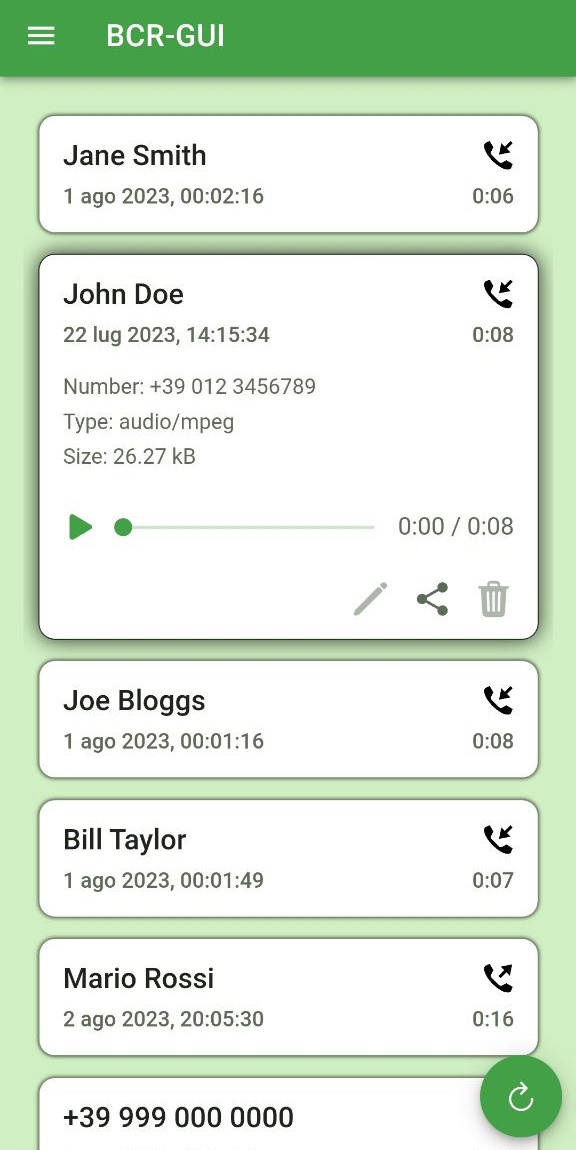
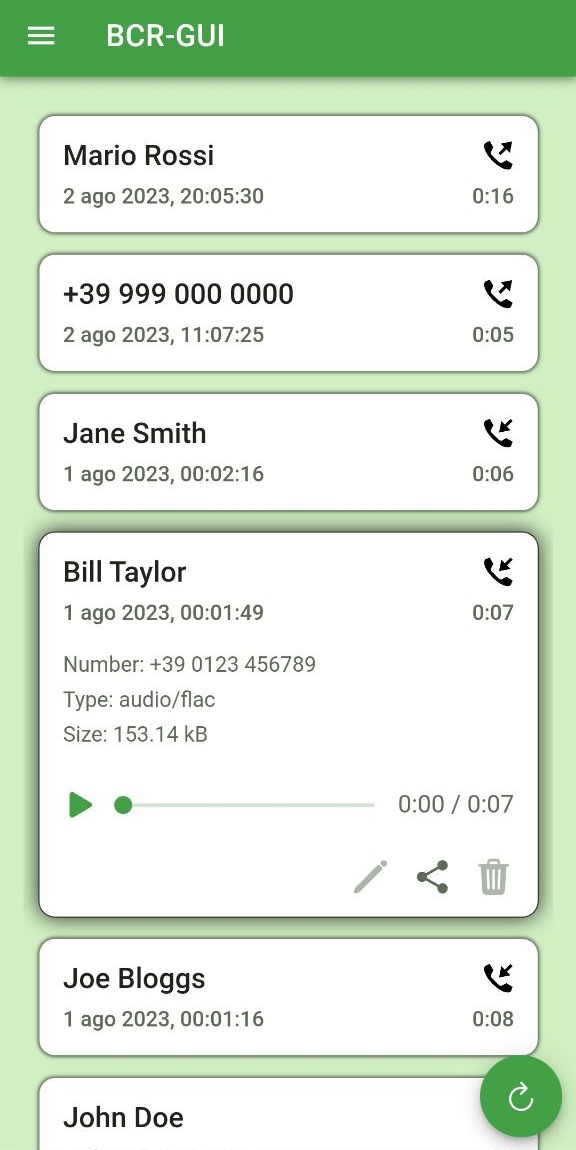
Added CHANGELOG file Closed version 0.0.2

diff --git a/src/app/version.ts b/src/app/version.ts
@@ -2,7 +2,7 @@ export default {
   // NOTE: remember to change version number in Android apk too:
   // android\app\build.gradle --> versionName
   "appName": "BCR-GUI",
-  "version": "0.0.1",
+  "version": "0.0.2",
   "copyright": "Claudio Nicora (nicorac) 2023",
   "website": "https://coolsoft.altervista.org",
   "sources": "https://github.com/nicorac/bcr-gui"

diff --git a/CHANGELOG.md b/CHANGELOG.md
@@ -1,0 +1,9 @@
+# Version history
+
+## Version 0.0.2 (2023-08-09)
+
+- New setting to change default recordings list sort
+
+## Version 0.0.1 (2023-08-08)
+
+- First working version
